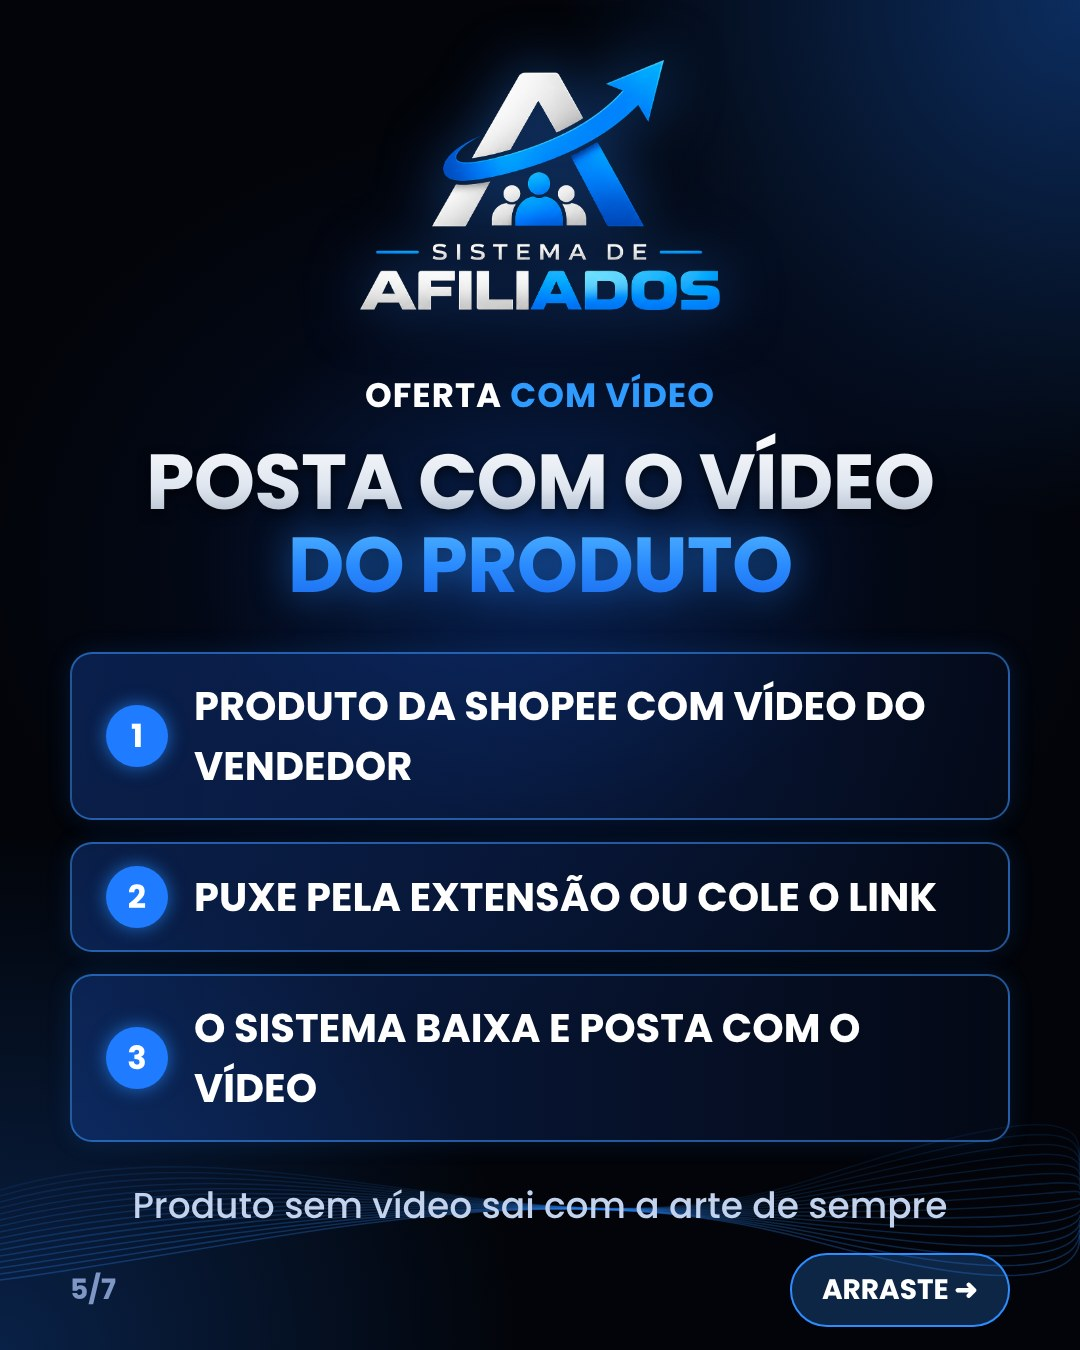
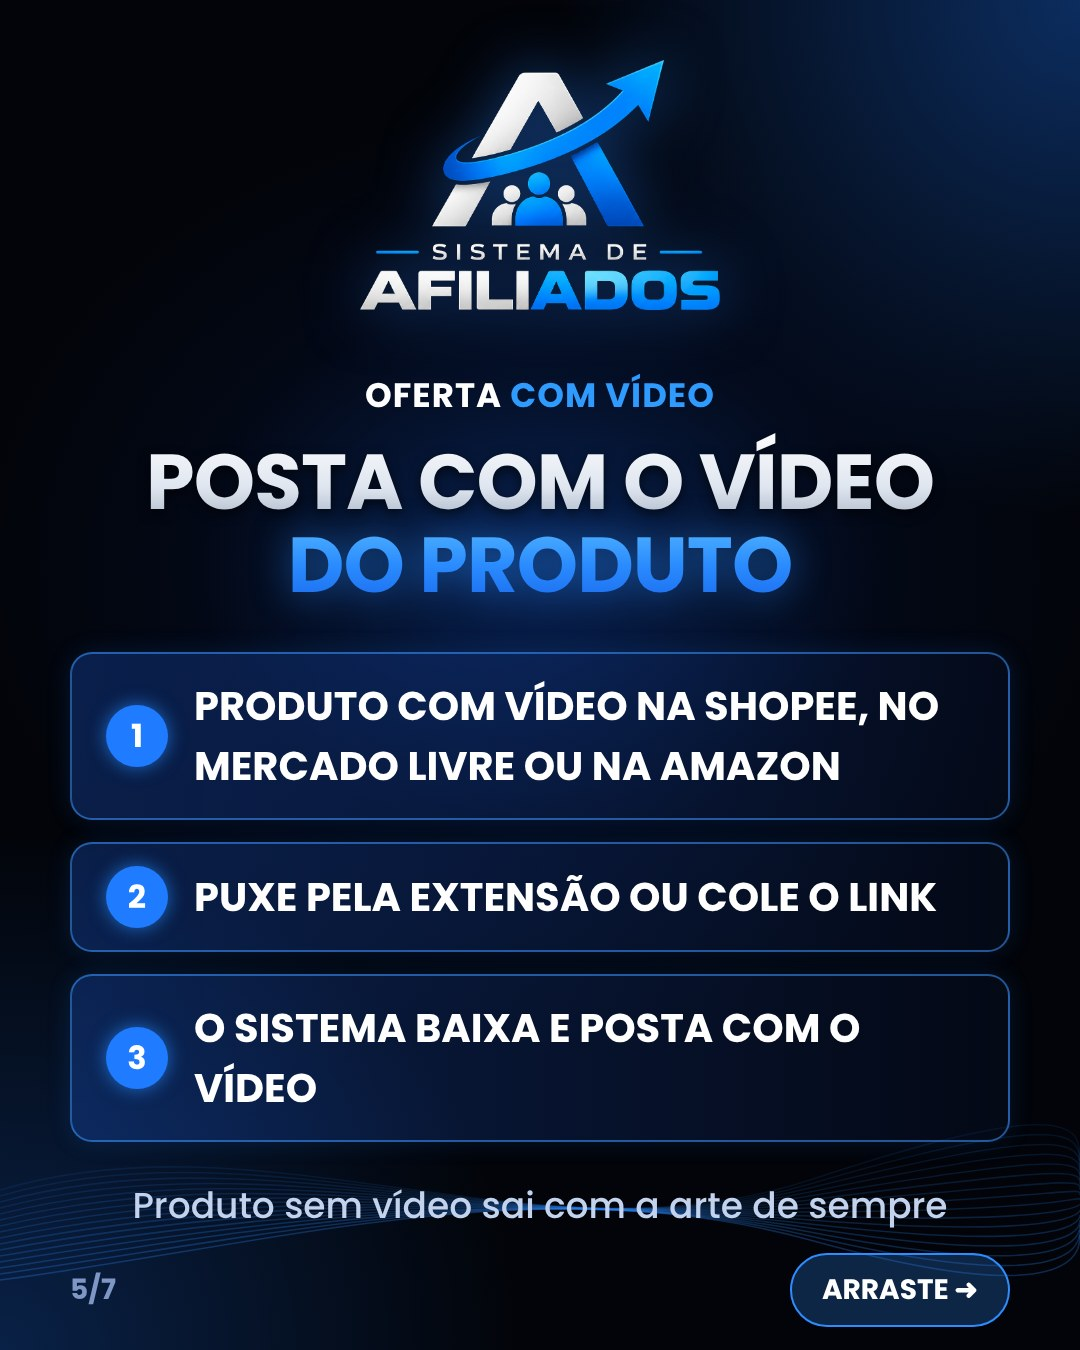
Rascunho funcionalidades: vídeo também do Mercado Livre e Amazon
Claude-Session: https://claude.ai/code/session_01Ts6bhdyHnW8NofQdRzgZ6u

Changed region(s): [[0.1833, 0.4978, 0.8861, 0.5911]]

diff --git a/build_sistema.py b/build_sistema.py
@@ -64,7 +64,7 @@ slides = [
       '<div class="sub">WhatsApp, Instagram e Telegram ao mesmo tempo</div></div>', 4, T),
  page('<div class="mid"><div class="kicker">OFERTA <b>COM VÍDEO</b></div>'
       '<h2 style="margin-top:20px"><span class="w">POSTA COM O VÍDEO</span><br><span class="b">DO PRODUTO</span></h2><div class="list">'
-      + it('Produto da Shopee com vídeo do vendedor','1') + it('Puxe pela extensão ou cole o link','2') + it('O sistema baixa e posta com o vídeo','3') + '</div>'
+      + it('Produto com vídeo na Shopee, no Mercado Livre ou na Amazon','1') + it('Puxe pela extensão ou cole o link','2') + it('O sistema baixa e posta com o vídeo','3') + '</div>'
       '<div class="sub">Produto sem vídeo sai com a arte de sempre</div></div>', 5, T),
  page('<div class="mid"><div class="kicker">E <b>TEM MAIS</b></div>'
       '<h2 style="margin-top:20px"><span class="w">TUDO NUM</span><br><span class="b">SÓ PAINEL</span></h2><div class="list">'
